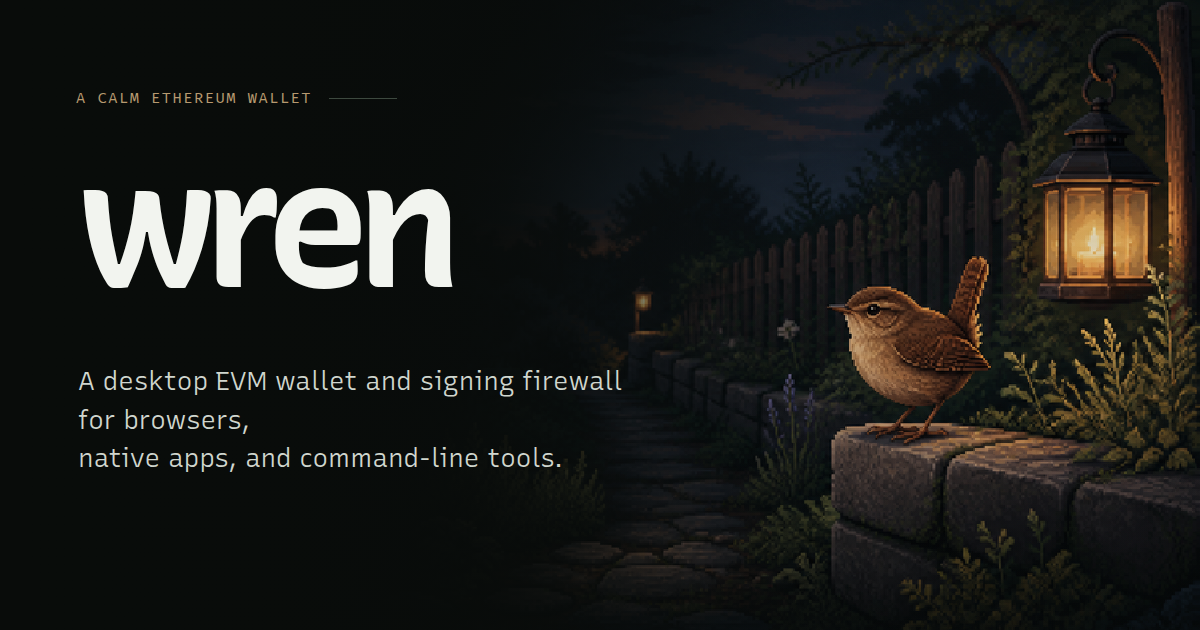
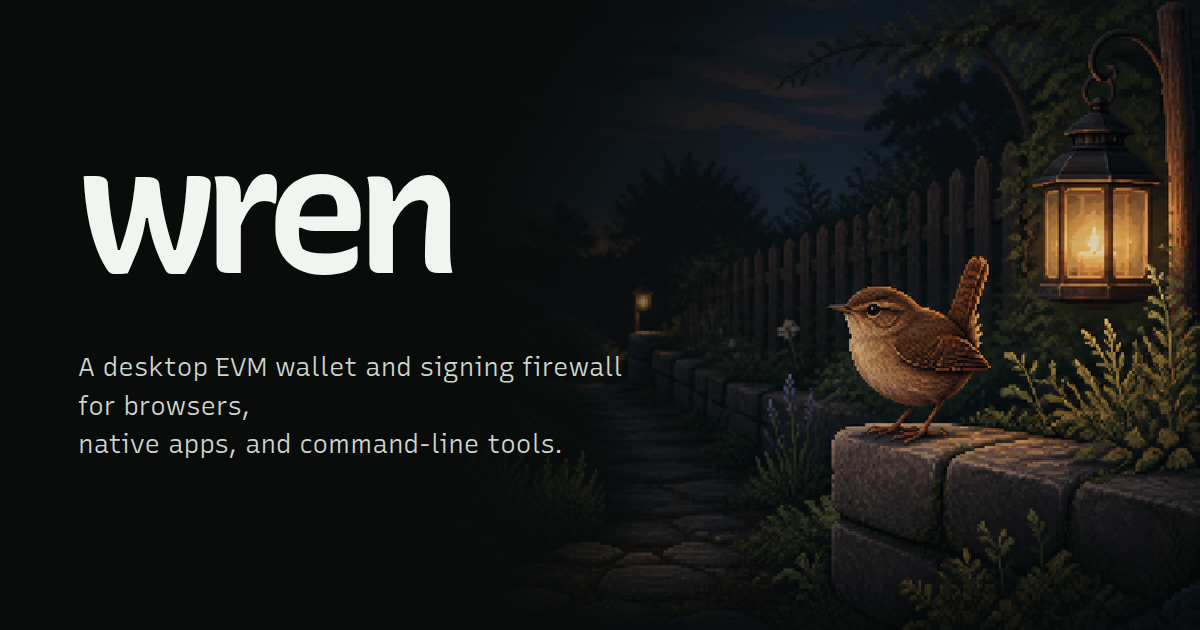
Remove eyebrow labels

Changed region(s): [[0.0617, 0.573, 0.5242, 0.754], [0.0617, 0.2714, 0.4008, 0.4825], [0.0617, 0.1508, 0.2467, 0.181]]

diff --git a/styles.css b/styles.css
@@ -97,13 +97,6 @@ a {
   border-radius: var(--wren-radius-md);
 }
 
-.eyebrow {
-  font-family: var(--wren-font-utility);
-  font-size: 10px;
-  letter-spacing: 0.1em;
-  text-transform: uppercase;
-}
-
 .header-links {
   display: flex;
   align-items: center;
@@ -192,20 +185,6 @@ main {
   width: min(50%, 470px);
 }
 
-.eyebrow {
-  margin: 0 0 var(--wren-space-8);
-  color: var(--wren-accent-primary-hover);
-}
-
-.eyebrow::after {
-  display: inline-block;
-  width: 48px;
-  height: 1px;
-  margin: 0 0 3px 14px;
-  content: "";
-  background: var(--wren-border-default);
-}
-
 h1 {
   margin: 0;
   color: var(--wren-text-primary);
@@ -288,11 +267,6 @@ h1 {
 
   .hero-copy {
     padding-top: 26px;
-  }
-
-  .eyebrow {
-    margin-bottom: 28px;
-    font-size: 9px;
   }
 
   h1 {

diff --git a/index.html b/index.html
@@ -79,7 +79,6 @@
           </div>
 
           <div class="hero-copy">
-            <p class="eyebrow">A calm Ethereum wallet</p>
             <h1 id="hero-title">wren</h1>
             <p class="intro">
               A desktop EVM wallet and signing firewall for browsers,
